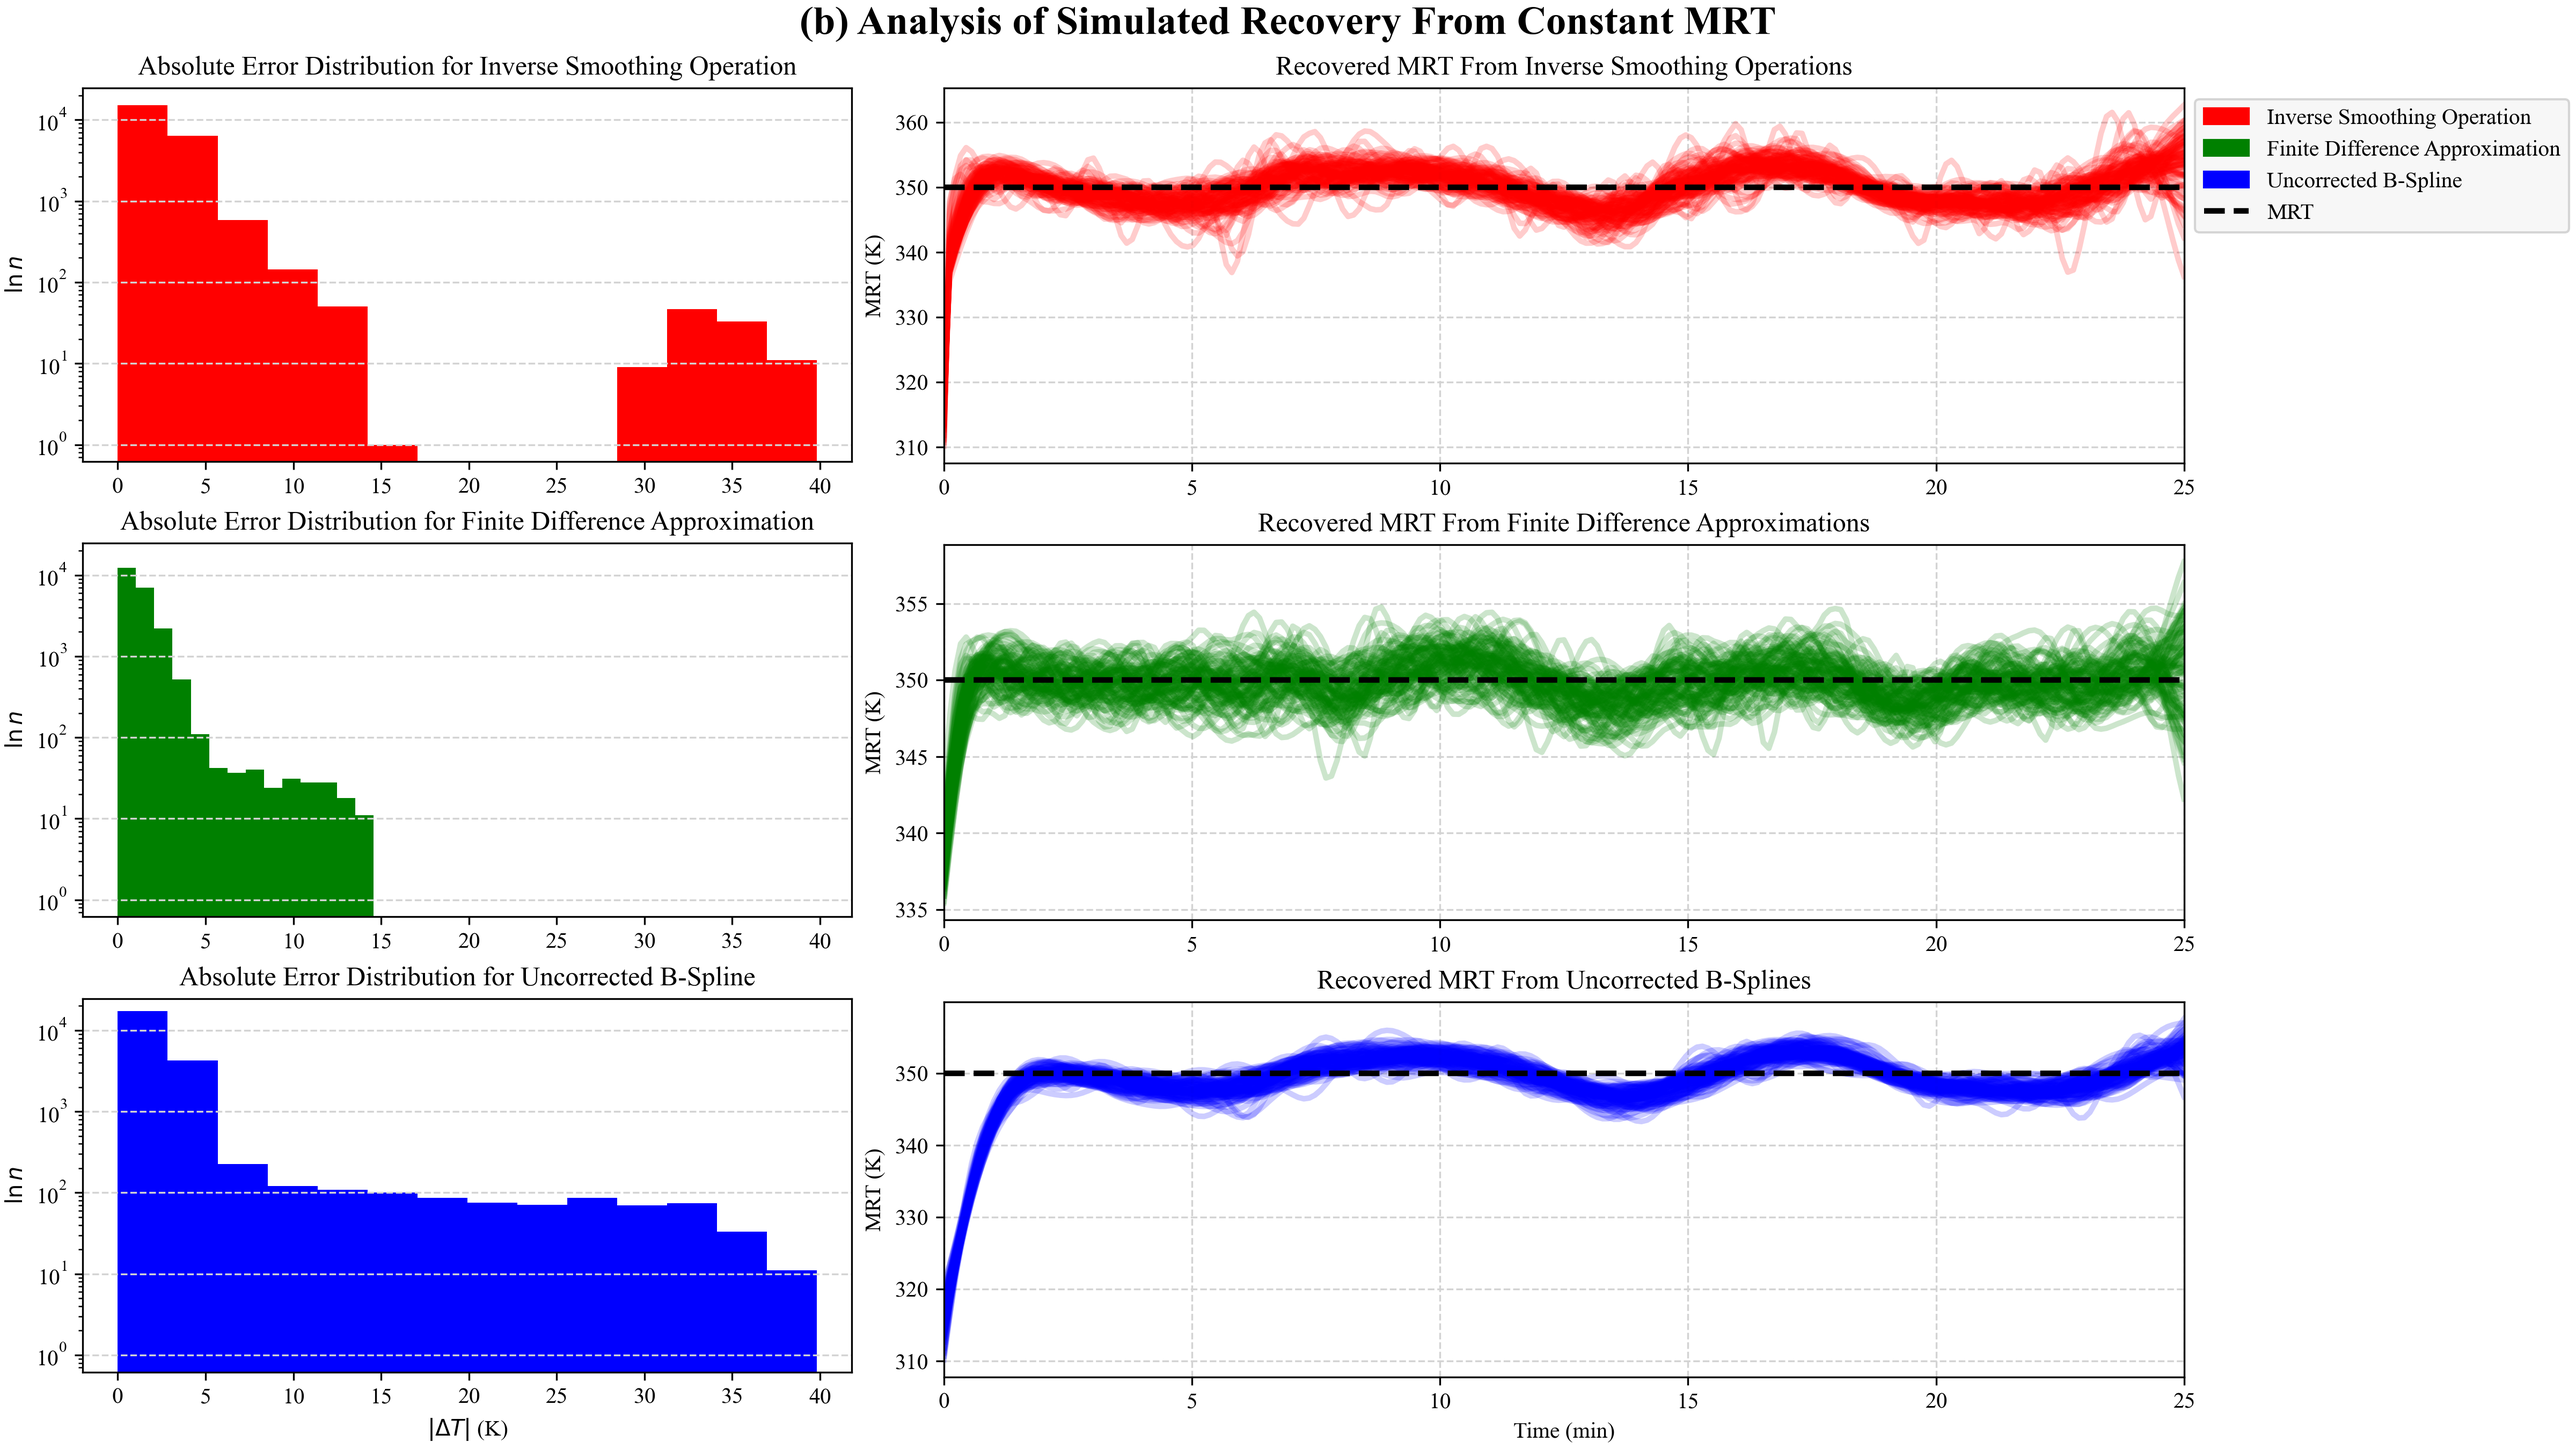
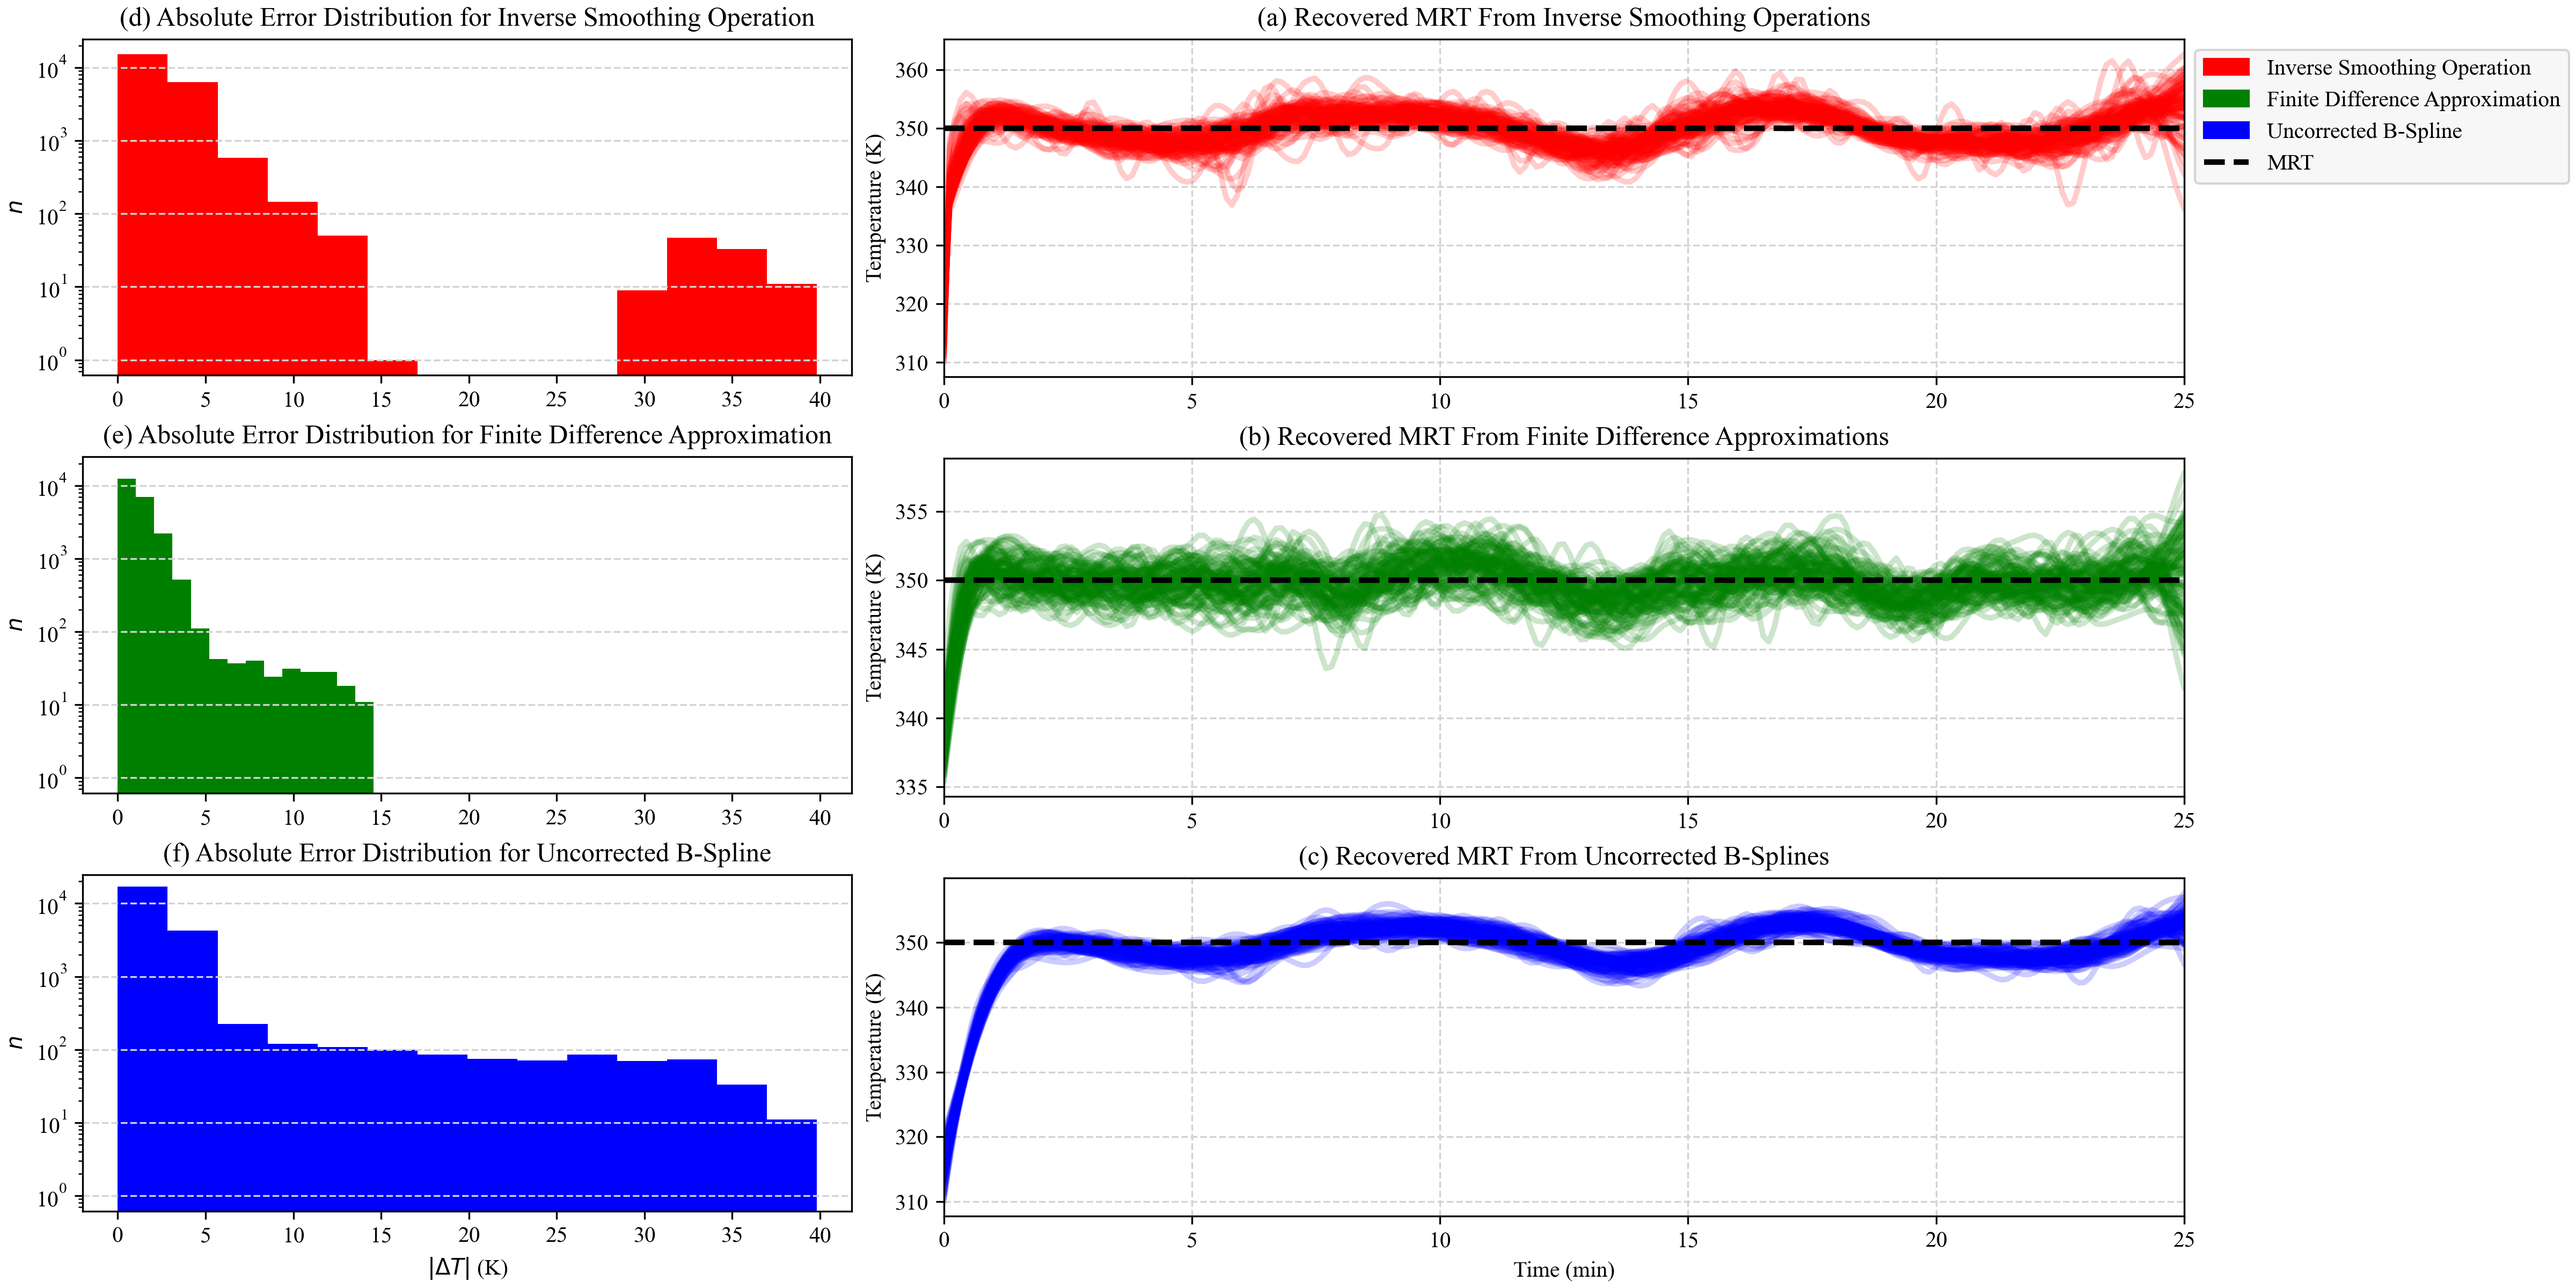
error analysis recovery algorithms

diff --git a/Code/data_analysis/simulation_test/error_analysis.py b/Code/data_analysis/simulation_test/error_analysis.py
@@ -1,0 +1,75 @@
+import pandas as pd
+import numpy as np
+import matplotlib.pyplot as plt
+from matplotlib.colors import LogNorm, PowerNorm
+from scipy.stats import linregress, pearsonr, spearmanrho
+
+import matplotlib as mpl
+
+mpl.rcParams['font.family'] = 'Times New Roman'
+plt.rc('legend',fontsize=10)
+
+path = "Data\simulation_test\semi_realistic"
+
+df = pd.read_csv(f"{path}\Semi_realistic_{0}.CSV")
+
+MRT = df["MRT"]
+
+smooth_error = np.array([])
+inverse_error = np.array([])
+finite_error = np.array([])
+
+for i in range(100):
+    df = pd.read_csv(f"{path}\Semi_realistic_{i}.CSV")
+
+    inverse_smoothed_MRT = df["InverseSmoothedMRT"]
+    finite_diff_MRT = df["FiniteDiffMRT"]
+
+    smoothed_estimated_MRT = df["SmoothedEstimatedMRT"]
+    estimated_MRT = df["EstimatedMRT"]
+
+    smooth_error = np.concatenate((smooth_error, estimated_MRT - smoothed_estimated_MRT), axis=None)
+    inverse_error = np.concatenate((inverse_error, MRT - inverse_smoothed_MRT), axis=None)
+    finite_error = np.concatenate((finite_error, MRT - finite_diff_MRT), axis=None)
+
+inverse_res = linregress(smooth_error, inverse_error)
+finit_res = linregress(smooth_error, finite_error)
+
+inverse_m = np.array([inverse_error.min(), inverse_error.max()])
+finit_m = np.array([finite_error.min(), finite_error.max()])
+
+
+fig, axis = plt.subplots(1,2, figsize=(10,5), layout="constrained")
+
+b = spearmanrho(smooth_error, inverse_error)
+g = spearmanrho(smooth_error, finite_error)
+print(f"for inverse smoothing: rho={b.statistic}, p-value that data has no correlation is {b.pvalue}")
+print(inverse_res)
+print("\n")
+print(f"for finite difference: rho={g.statistic}, p-value that data has no correlation is {g.pvalue}")
+print(finit_res)
+
+h = axis[0].hist2d(smooth_error, inverse_error, bins=100, norm=LogNorm(), cmap="autumn")
+axis[0].plot(inverse_m, inverse_res.intercept + inverse_res.slope * inverse_m, color="black", lw=2, label="Linear Regression Lines")
+axis[0].legend(facecolor="whitesmoke", loc="lower left")
+axis[0].set_ylabel("Recovery Error (K)")
+axis[0].set_xlabel(r"B-Spline Error (K)")
+axis[0].grid(linestyle='--', color="lightgrey")
+axis[0].set_title('(a) Inverse Smoothing Operation')
+fig.colorbar(h[3], ax=axis[0])
+
+
+h = axis[1].hist2d(smooth_error, finite_error, bins=100, norm=LogNorm(), cmap="summer")
+axis[1].plot(finit_m, finit_res.intercept + finit_res.slope * finit_m, color="black", lw=2, label="Linear Regression Lines")
+axis[1].grid(linestyle="--", color="lightgrey")
+axis[1].set_ylabel("Recovery Error (K)")
+axis[1].set_xlabel(r"B-Spline Error (K)")
+axis[1].set_title('(b) Finite Difference Approximation')
+fig.colorbar(h[3], ax=axis[1])
+
+# fig.savefig("correlation.png", dpi=300)
+
+print(np.mean(smooth_error), np.mean(finite_error), np.mean(inverse_error))
+
+
+plt.show()
